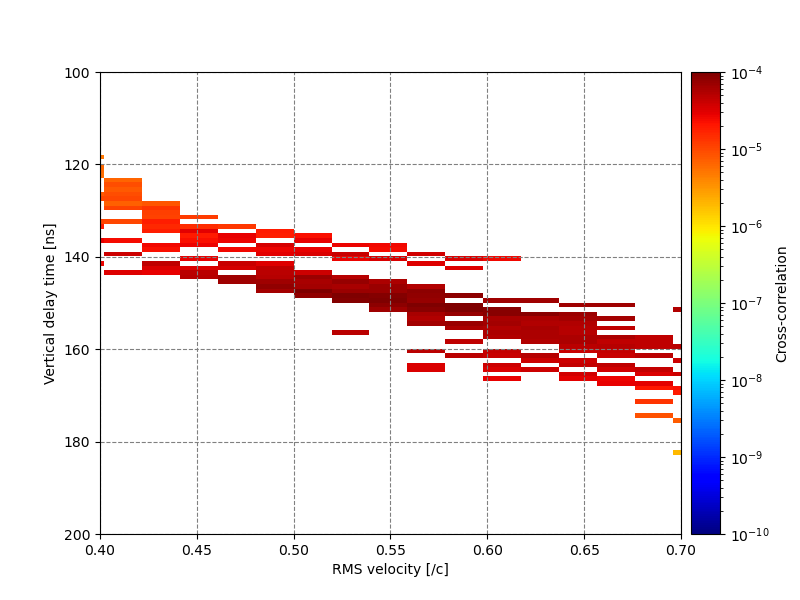
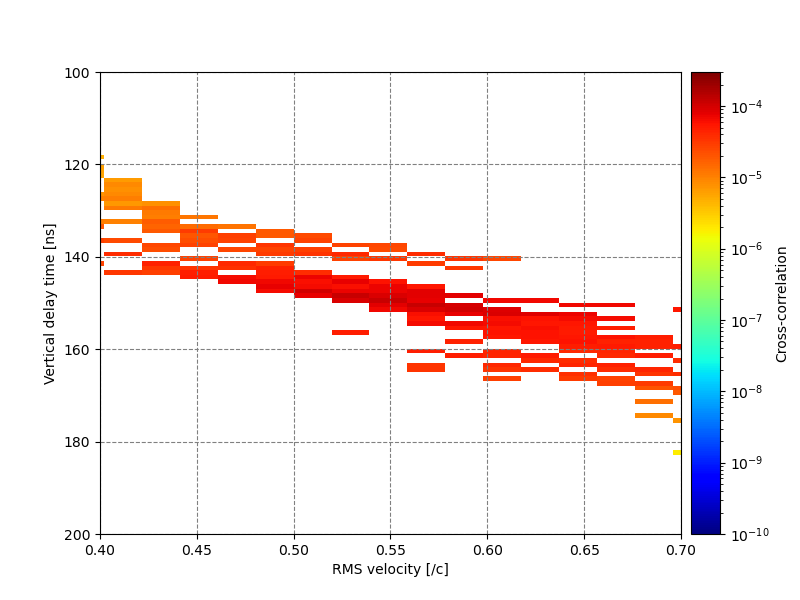
make plot

diff --git a/tools/estimate_Vrms.py b/tools/estimate_Vrms.py
@@ -140,7 +140,7 @@ ax = fig.add_subplot(111)
 
 plt.imshow(Vt_map, cmap='jet', aspect='auto', interpolation='nearest',
         extent=[RMS_velocity[0], RMS_velocity[-1], vertical_delay_time[-1], vertical_delay_time[0]],
-        norm=colors.LogNorm(vmin=1e-10, vmax=5e-4))
+        norm=colors.LogNorm(vmin=1e-10, vmax=3e-4))
 
 ax.set_xlabel('RMS velocity [/c]')
 ax.set_ylabel('Vertical delay time [ns]')
@@ -150,10 +150,10 @@ ax.grid(color='gray', linestyle='--')
 ===== for closeup option =====
 """
 if args.closeup == True:
-    x_start = 0.4
-    x_end = 0.7
-    y_start = 100
-    y_end = 200
+    x_start = 0.35
+    x_end = 0.65
+    y_start = 700
+    y_end = 900
     plt.xlim(x_start, x_end)
     plt.ylim(y_end, y_start)
 
